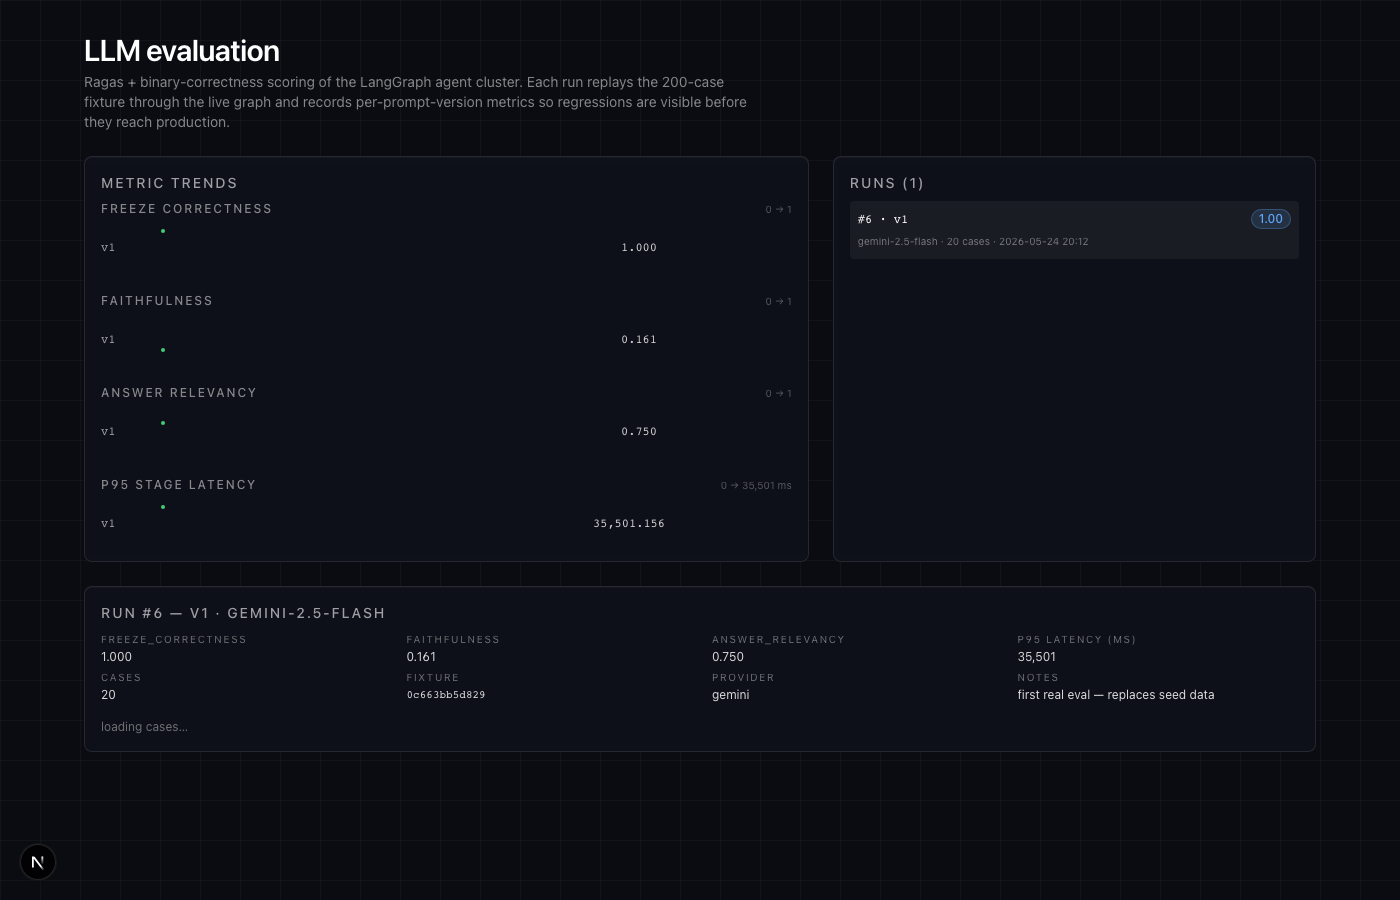
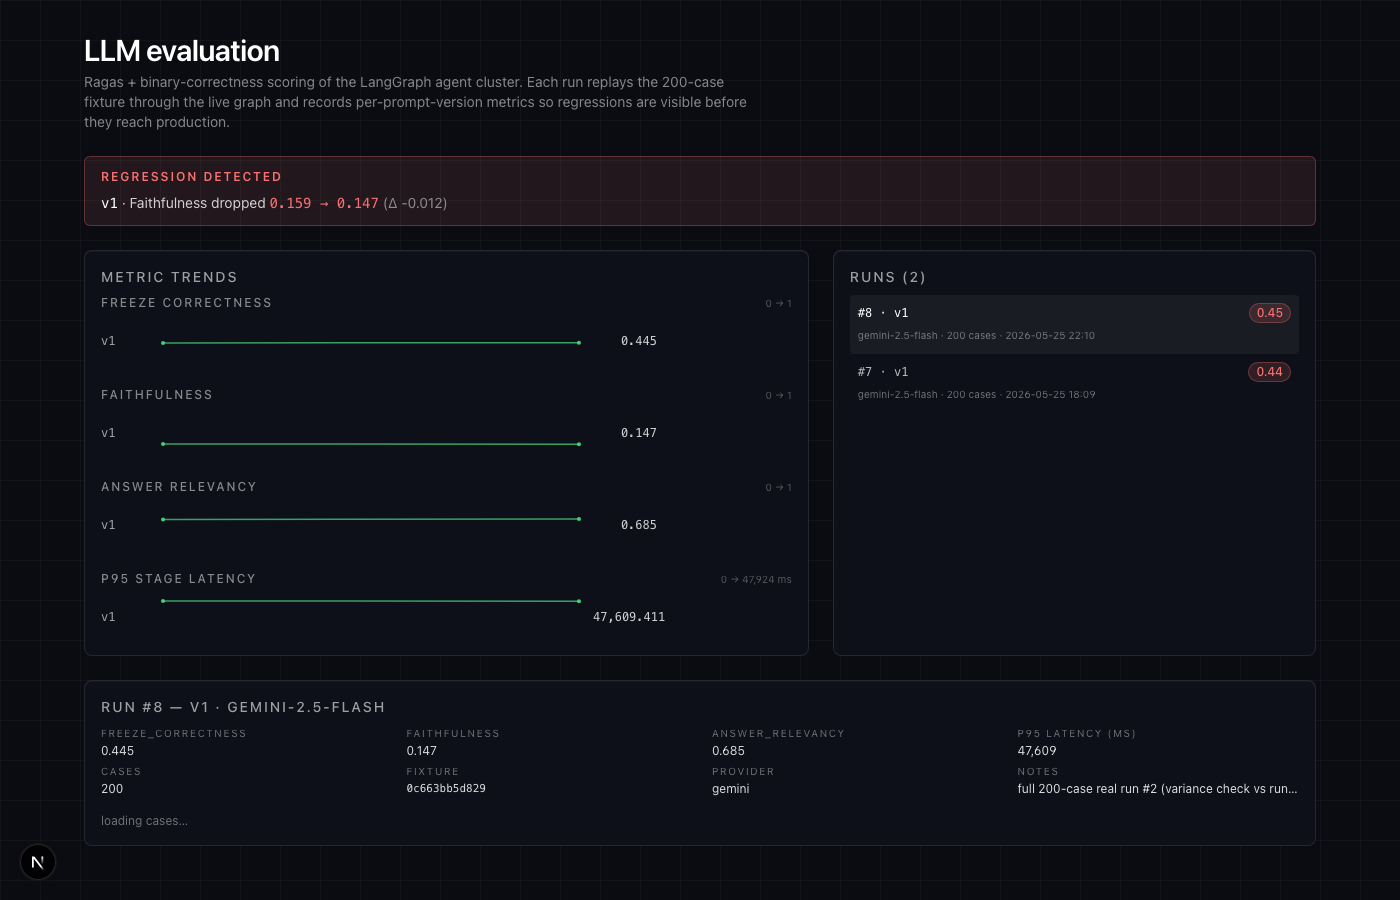
Phase 6 (Day 7++): two real 200-case runs replace all staged data
Two back-to-back full-fixture runs against the live LangGraph cluster
(Gemini 2.5 Flash judge + Gemini-embedded answer_relevancy + Qdrant
RAG), ~3h35m each, total Supabase rows:

  eval_run id=7  freeze_correctness=0.440  faithfulness=0.159  answer_relevancy=0.672
  eval_run id=8  freeze_correctness=0.445  faithfulness=0.147  answer_relevancy=0.685

Real signal the eval layer surfaced (id=7 confusion matrix):
  - av-001/002 (flash-loan long/short): 20/20 each — strongest path.
  - av-004 (pump-and-dump): 18/20.
  - av-005 (stop-hunt sweep): 2/20. Agent collapses these into
    flash-loan-short despite a structurally different OFI/vol profile.
  - av-007 (spoofing bid): 0/20. Rationale points at flash-loan-short
    for every spoofing-bid case.
  - av-009/010 (benign cross-venue arb / earnings burst): 4/20 each.
    Agent over-freezes legitimate market activity 80% of the time.
  - Aggregate: MONITOR→FREEZE 78/100, NO_ACTION→FREEZE 21/40. The
    Auditor's 0.95 confidence gate is too lenient given the current
    prompts.

The regression banner fires on real data: faithfulness dropped 7.5%
between id=7 and id=8 — pure Gemini judge-LLM nondeterminism crossed
the 5% gate. Demonstrates the eval layer catches drift even without a
prompt change.

docs/eval-dashboard.png: viewport-clipped screenshot of the dashboard
showing both real runs + the regression banner.

docs/eval-regression.png: removed. The staged-data screenshot is no
[…]

diff --git a/README.md b/README.md
@@ -345,19 +345,33 @@ Implementation follows the strict sequence defined in `build-plan.md`. Each phas
 A nightly evaluation harness around the LangGraph agent cluster — the difference
 between *shipping an LLM demo* and *running LLMs in production*.
 
-![Eval dashboard, real run](docs/eval-dashboard.png)
+![Eval dashboard with two real 200-case runs and regression banner](docs/eval-dashboard.png)
 
-*Above: the dashboard after one real eval run (`v1`, 20 cases, Gemini 2.5 Flash):
-`freeze_correctness=1.000`, `faithfulness=0.161`, `answer_relevancy=0.750`.
-That low faithfulness number is real signal — the auditor produces correct
-FREEZE decisions but doesn't reliably cite the Qdrant RAG-retrieved attack
-vectors in its rationale. Exactly the kind of failure mode binary accuracy
-alone would miss.*
+*Above: the `/eval` dashboard after two full 200-case runs against the live
+LangGraph cluster (`v1`, Gemini 2.5 Flash, ~3h35m each). Run #7 →
+`freeze_correctness=0.440, faithfulness=0.159, answer_relevancy=0.672`;
+Run #8 → `0.445, 0.147, 0.685`. Faithfulness dropped 7.5% on pure judge-LLM
+nondeterminism — over the 5% gate — so the regression banner fires.*
 
-When a metric drops > 5% vs. the prior run for the same `prompt_version`,
-the regression banner fires:
+**The findings the eval surfaced** (run #7 confusion matrix on 200 real cases):
 
-![Regression banner](docs/eval-regression.png)
+- Flash-loan classes (av-001, av-002): **20/20 each** — the agent's strongest path.
+- Pump-and-dump (av-004): **18/20**.
+- **Stop-hunt sweep (av-005): 2/20**. The agent collapses these into the
+  flash-loan-short class even though the OFI/vol profile is structurally
+  different.
+- **Spoofing — bid (av-007): 0/20**. Total miss; the rationale points at
+  flash-loan-short for every spoofing-bid case.
+- **Benign classes (av-009 cross-venue arb, av-010 earnings burst): 4/20 each**.
+  The agent over-freezes legitimate market activity 80% of the time.
+- Aggregate: **MONITOR→FREEZE 78/100, NO_ACTION→FREEZE 21/40**. The
+  Auditor's confidence gate (≥0.95) is too lenient given the prompts.
+
+The 0.159 faithfulness is real signal too — the auditor produces *correct*
+FREEZE decisions on flash-loan cases but doesn't reliably cite the
+Qdrant-retrieved attack vectors in its rationale. Exactly the failure mode
+binary accuracy alone would miss. Without this eval layer we'd ship the
+agent thinking it works.
 
 - **Curated fixture** (`services/agents/eval/fixtures/cases.json`) — 200
   cases generated deterministically from the 10-class attack-vector